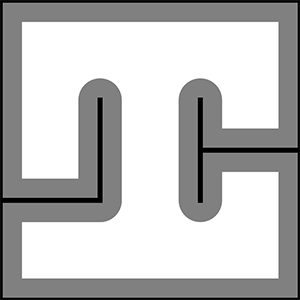
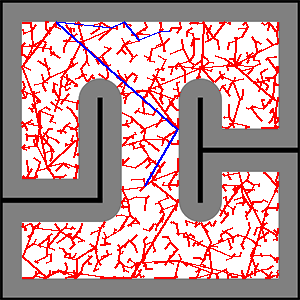
plots path

Changed region(s): [[0.06, 0.06, 0.93, 0.93], [0.81, 0.06, 0.84, 0.12], [0.81, 0.42, 0.84, 0.45]]

diff --git a/finalproject.py b/finalproject.py
@@ -174,8 +174,8 @@ class Run:
 
     def convertPath(self, path):
         toReturn = []
-        x_scale = 3.25 / 300
-        y_scale = 3 / 335
+        x_scale = 3 / 300
+        y_scale = 3 / 300
         for v in path:
             new_x = (v.x) * x_scale
             new_y = (300 - v.y) * y_scale
@@ -200,10 +200,7 @@ class Run:
             pyCreate2.Sensor.LeftEncoderCounts,
             pyCreate2.Sensor.RightEncoderCounts,
         ])
-        # TAKEN OUT SO NO RED ARROWS
-        # self.visualize()
-        # self.virtual_create.enable_buttons()
-        # self.visualize()
+
 
         # hardcoded position for robot to go near arm
         # waypoints = [[.4, 1.6]]
@@ -225,54 +222,55 @@ class Run:
         # self.arm.go_to(1, -math.pi/4)
         # self.time.sleep(1)
 
-        # self.update_odom()
-        # self.pf.draw(self.virtual_create)
-        # turns_since_wall = 0
-        # turn_angle = np.pi / 15.
-        # while True:
-        #     if (np.array(self.pf.variance()) < np.array([0.02, 0.02, np.pi * 2 / 3])).any():
-        #         self.localized_x, self.localized_y, self.localized_theta = self.pf.mean()
-        #         break
-        #     print('mean', self.pf.mean())
-        #     print('variance', self.pf.variance())
-        #     self.turn(turn_angle)
-        #     dist = self.sense()
-        #
-        #     if dist > .7:
-        #         # We "didn't see a wall."
-        #         turns_since_wall += 1
-        #     else:
-        #         # We "saw a wall."
-        #         turns_since_wall = 0
-        #
-        #     # No wall for three steps, turn back one step and move through the "middle".
-        #     if turns_since_wall > 3:
-        #         self.turn(-turn_angle)
-        #         self.sense()
-        #         self.forward(0.5)
-        #         self.sense()
-        #         turns_since_wall -= 1
-        #
-        #     self.pf.draw(self.virtual_create)
-        #     self.time.sleep(0.01)
+        self.update_odom()
+        self.pf.draw(self.virtual_create)
+        turns_since_wall = 0
+        turn_angle = np.pi / 15.
+        while True:
+            if (np.array(self.pf.variance()) < np.array([0.02, 0.02, np.pi * 2 / 3])).any():
+                self.localized_x, self.localized_y, self.localized_theta = self.pf.mean()
+                break
+            print('actual ', self.odometry.x,self.odometry.y,self.odometry.theta)
+            print('mean', self.pf.mean())
+            print('variance', self.pf.variance())
+            self.turn(turn_angle)
+            dist = self.sense()
 
+            if dist > .7:
+                # We "didn't see a wall."
+                turns_since_wall += 1
+            else:
+                # We "saw a wall."
+                turns_since_wall = 0
 
-        # TODO use localized position to create RRTree
-        # TODO need to pass in position to RRTree constructor
-        # self.map.draw_line((100, 250), (170, 30), (255, 0, 0))
+            # No wall for three steps, turn back one step and move through the "middle".
+            if turns_since_wall > 3:
+                self.turn(-turn_angle)
+                self.sense()
+                self.forward(0.5)
+                self.sense()
+                turns_since_wall -= 1
+
+            self.pf.draw(self.virtual_create)
+            self.time.sleep(0.01)
+
+        new_x = int((self.localized_x) * 100)
+        new_y = int(300 - (self.localized_y*100))
+        print('currpos ', new_x,new_y)
+
+        self.RRTree.vertices.append(vertex.vertex(int(new_x),int(new_y)))
+        print(self.map.has_obstacle(new_x,new_y))
+
         for i in range(2000):
             #generate random x
             x_pos = random.randint(0,299)
             y_pos = random.randint(0,299)
             randompoint = vertex.vertex(x_pos,y_pos)
-            # print(x_pos,y_pos)
             closest = self.RRTree.find_nearest(randompoint)
-            print(closest.x,closest.y)
             actual = self.RRTree.place_point(closest, randompoint)
             if actual is None:
                 continue
             if closest.getDistance(actual.x, actual.y) < self.RRTree.delta:
-                print("less than delta")
                 continue
             else:
                 print("adding point", i)
@@ -293,6 +291,18 @@ class Run:
             else:
                 break
         self.map.save("pathFP.png")
+
+        for i in path:
+            print(i.x, i.y)
+        path = self.convertPath(path)
+        print("-------")
+        for i in path:
+            print(i.x, i.y)
+        waypoints = []
+        for i in path:
+            waypoints.append([i.x, i.y])
+
+        self.goto(waypoints)
 
 
         # while True:

diff --git a/RRTree.py b/RRTree.py
@@ -6,7 +6,7 @@ class RRTree:
     def __init__(self, delta, lab10map):
         self.vertices = []
         # starting point defined below
-        self.vertices.append(vertex.vertex(100,250))
+
         self.map = lab10map
         self.pairs = []
         self.delta = delta
@@ -27,6 +27,7 @@ class RRTree:
         x_array = numpy.linspace(vertex1.x, vertex2.x, 800, dtype=numpy.int)
         y_array = numpy.linspace(vertex1.y, vertex2.y, 800, dtype=numpy.int)
         for i in range(800):
+            # print(i)
             if self.map.has_obstacle(int(x_array[i]), int(y_array[i])):
                 if i >= 1:
                     return vertex.vertex(x_array[i - 1], y_array[i - 1])
